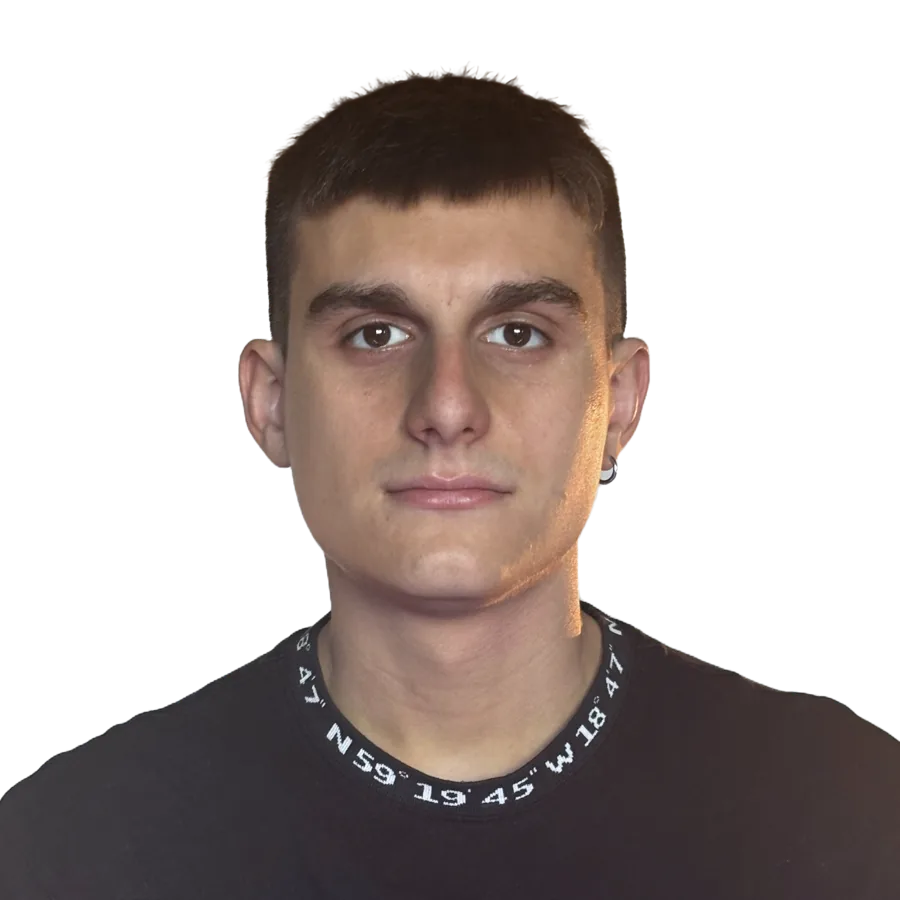
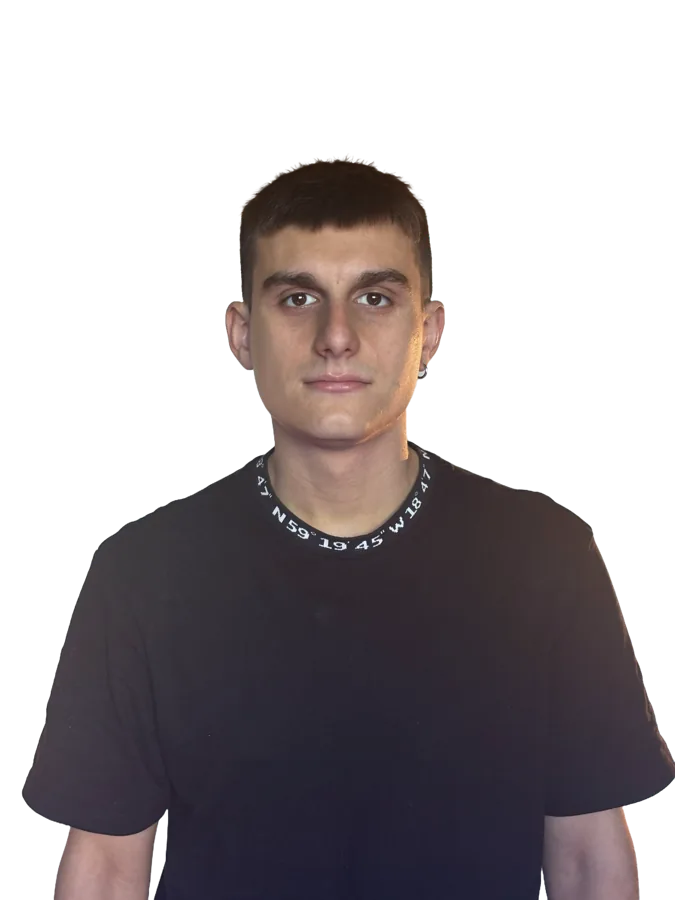
Hero senza sovrapposizioni, foto intera nella bolla
- preview e parole alternate di lato e distanziate: zero sovrapposizioni
- su mobile profondita' compressa: gli elementi finali non sono piu' piccoli
- foto intera che riempie la bolla, tagliata dal bordo, con la testa fuori
- card del carosello sempre a piena dimensione

diff --git a/assets/js/main.js b/assets/js/main.js
@@ -178,33 +178,42 @@
   const WORD_SIZE  = [54, 76, 46, 66, 42, 60];
 
   /* x = % della larghezza · z = profondita' · st = quando entra (progresso 0-1)
-     m = 1 → presente anche su schermi piccoli                                  */
+     m = 1 → presente anche su schermi piccoli
+
+     Le palline possono sovrapporsi liberamente: danno profondita'.
+     Preview e parole no: si alternano di lato e sono distanziate nel tempo
+     (almeno 0.09 di progresso tra due elementi dallo stesso lato), cosi'
+     non finiscono mai una sopra l'altra, nemmeno su schermo stretto.
+     Tutte hanno z negativo: passano dietro al nome, mai davanti.          */
   const HERO_LAYOUT = [
+    /* --- palline --- */
     { k: "ball", c: "teal",   s: 190, x: -34, z: -520, zt: 300, st: -0.28, m: 1 },
-    { k: "card", i: 0,                x:  30, z: -300, zt: 240, st: -0.22, m: 1 },
-    { k: "word", w: 0,                x: -19, z: -180, zt: 200, st: -0.16, m: 0 },
     { k: "ball", c: "blue",   s: 150, x:  38, z: -400, zt: 260, st: -0.12, m: 1 },
     { k: "ball", c: "amber",  s:  44, x: -44, z:  130, zt: 180, st: -0.06, m: 1, g: 1 },
     { k: "ball", c: "lime",   s:  52, x:  44, z:   70, zt: 160, st: -0.04, m: 1, g: 1 },
-    { k: "card", i: 1,                x: -31, z: -360, zt: 240, st: -0.02, m: 1 },
     { k: "ball", c: "cyan",   s: 220, x: -10, z: -620, zt: 320, st:  0.04, m: 1 },
-    { k: "word", w: 1,                x:  33, z:   90, zt: 150, st:  0.08, m: 1 },
     { k: "ball", c: "lime",   s:  74, x:  20, z: -250, zt: 220, st:  0.12, m: 0 },
-    { k: "card", i: 2,                x:  33, z: -210, zt: 220, st:  0.16, m: 1 },
-    { k: "word", w: 2,                x: -30, z: -430, zt: 260, st:  0.20, m: 1 },
     { k: "ball", c: "green",  s: 130, x:  29, z: -470, zt: 280, st:  0.24, m: 0 },
     { k: "ball", c: "amber",  s: 112, x: -39, z: -360, zt: 250, st:  0.26, m: 1 },
-    { k: "card", i: 3,                x: -27, z: -430, zt: 250, st:  0.28, m: 1 },
     { k: "ball", c: "orange", s:  58, x: -24, z: -200, zt: 190, st:  0.32, m: 1, g: 1 },
-    { k: "word", w: 3,                x:  21, z: -140, zt: 170, st:  0.36, m: 0 },
     { k: "ball", c: "cyan",   s:  38, x:  43, z:  150, zt: 170, st:  0.40, m: 1, g: 1 },
-    { k: "card", i: 4,                x:  28, z: -330, zt: 240, st:  0.43, m: 0 },
     { k: "ball", c: "teal",   s: 200, x:   8, z: -580, zt: 300, st:  0.46, m: 1 },
-    { k: "word", w: 4,                x: -18, z: -540, zt: 280, st:  0.49, m: 1 },
-    { k: "card", i: 5,                x: -33, z: -240, zt: 220, st:  0.52, m: 1 },
-    { k: "ball", c: "blue",   s:  96, x:  22, z: -330, zt: 230, st:  0.55, m: 0 },
     { k: "ball", c: "orange", s: 164, x: -29, z: -500, zt: 290, st:  0.50, m: 1 },
-    { k: "word", w: 5,                x:  28, z: -120, zt: 160, st:  0.58, m: 1 }
+    { k: "ball", c: "blue",   s:  96, x:  22, z: -330, zt: 230, st:  0.55, m: 0 },
+
+    /* --- preview dei contenuti e parole chiave, alternate --- */
+    { k: "card", i: 0,        x:  32, z: -300, zt: 240, st: -0.22, m: 1 },
+    { k: "word", w: 0,        x: -24, z: -180, zt: 200, st: -0.15, m: 1 },
+    { k: "card", i: 1,        x:  30, z: -360, zt: 240, st: -0.08, m: 1 },
+    { k: "word", w: 1,        x: -22, z: -160, zt: 170, st: -0.01, m: 1 },
+    { k: "card", i: 2,        x:  33, z: -210, zt: 220, st:  0.06, m: 1 },
+    { k: "word", w: 2,        x: -25, z: -430, zt: 260, st:  0.13, m: 1 },
+    { k: "card", i: 3,        x: -31, z: -430, zt: 250, st:  0.22, m: 1 },
+    { k: "word", w: 3,        x:  24, z: -140, zt: 170, st:  0.29, m: 0 },
+    { k: "card", i: 4,        x: -29, z: -330, zt: 240, st:  0.36, m: 0 },
+    { k: "word", w: 4,        x:  22, z: -540, zt: 280, st:  0.43, m: 1 },
+    { k: "card", i: 5,        x: -32, z: -240, zt: 220, st:  0.50, m: 1 },
+    { k: "word", w: 5,        x:  25, z: -120, zt: 160, st:  0.57, m: 1 }
   ];
 
   /* Le preview arrivano dai contenuti veri: appena metti un'immagine in
@@ -234,7 +243,10 @@
 
   function buildField(field, small) {
     const cards = heroCards();
-    const scale = small ? 0.88 : 1;
+    const scale = small ? 0.95 : 1;
+    /* su uno schermo stretto la profondita' rimpicciolisce troppo gli elementi
+       lontani (quelli della parte finale): avvicino tutti i piani */
+    const zK = small ? 0.55 : 1;
     const items = [];
 
     HERO_LAYOUT.forEach((d, n) => {
@@ -288,7 +300,7 @@
       }
 
       /* profondita': i piani lontani sono piu' sfocati e piu' spenti */
-      const far = Math.min(1, Math.max(0, (-d.z - 150) / 500));
+      const far = Math.min(1, Math.max(0, (-d.z * zK - 150) / 500));
       if (far > 0.05) inner.style.filter = "blur(" + (far * 2.2).toFixed(1) + "px)";
 
       item.style.opacity = "0";
@@ -296,7 +308,7 @@
       field.appendChild(item);
 
       items.push({
-        el: item, xp: small ? d.x * 0.75 : d.x, z0: d.z, zt: d.zt,
+        el: item, xp: small ? d.x * 0.85 : d.x, z0: d.z * zK, zt: d.zt * zK,
         start: d.st, dur: 0.42,
         y0: 88, travel: 176,
         d0: 380 + items.length * 80,
@@ -596,15 +608,31 @@
   function initPortrait() {
     const frame = $("#portrait");
     if (!frame || typeof FOTO === "undefined" || !FOTO) return;
-    const img = new Image();
-    img.src = FOTO;
-    img.alt = "Ritratto di Andrea Mariotti";
-    img.className = "portrait__img";
-    img.decoding = "async";
-    img.addEventListener("load", () => {
+    const probe = new Image();
+    probe.src = FOTO;
+    probe.decoding = "async";
+    probe.addEventListener("load", () => {
       const fb = $(".portrait__fallback", frame);
       if (fb) fb.remove();
-      frame.appendChild(img);
+
+      /* copia ritagliata dal cerchio: il corpo dentro la bolla */
+      const clip = document.createElement("div");
+      clip.className = "portrait__clip";
+      const body = new Image();
+      body.src = FOTO;
+      body.alt = "Ritratto di Andrea Mariotti";
+      body.className = "portrait__body";
+      clip.appendChild(body);
+
+      /* copia mascherata: solo cio' che sta sopra il bordo della bolla */
+      const head = new Image();
+      head.src = FOTO;
+      head.alt = "";
+      head.setAttribute("aria-hidden", "true");
+      head.className = "portrait__head";
+
+      frame.appendChild(clip);
+      frame.appendChild(head);
     }, { once: true });
   }
 

diff --git a/assets/css/style.css b/assets/css/style.css
@@ -461,14 +461,25 @@ body.menu-open .menu__link{animation:menuIn .55s var(--ease-out) forwards;}
   background:var(--grad-blue);
   box-shadow:0 34px 90px -26px rgba(43,107,255,.7);
 }
-/* esce dalla bolla solo la testa: spalle e collo restano dentro,
-   e il bordo basso sfuma nel blu */
-.portrait__img{
-  position:absolute;left:50%;top:-12%;width:74%;
+/* La foto e' una sola, mostrata in due copie sovrapposte:
+   - .portrait__body sta dentro un cerchio che la ritaglia (il corpo riempie
+     la bolla fino in fondo e viene tagliato dal bordo)
+   - .portrait__head mostra solo la parte sopra il bordo della bolla,
+     cioe' la testa, che resta libera.
+   Stessa immagine, stessa posizione: la giunzione non si vede. */
+.portrait__clip{
+  position:absolute;inset:0;z-index:2;
+  border-radius:50%;overflow:hidden;
+}
+.portrait__body,.portrait__head{
+  position:absolute;left:50%;top:-28%;width:100%;
   transform:translateX(-50%);
-  -webkit-mask-image:linear-gradient(to bottom,#000 74%,rgba(0,0,0,.5) 90%,transparent 100%);
-          mask-image:linear-gradient(to bottom,#000 74%,rgba(0,0,0,.5) 90%,transparent 100%);
-  filter:drop-shadow(0 22px 38px rgba(0,0,0,.55));
+}
+.portrait__head{
+  z-index:3;
+  -webkit-mask-image:linear-gradient(to bottom,#000 0 20.8%,transparent 20.8%);
+          mask-image:linear-gradient(to bottom,#000 0 20.8%,transparent 20.8%);
+  filter:drop-shadow(0 -4px 16px rgba(0,0,0,.4));
 }
 .portrait__fallback{
   font-family:var(--font-display);font-weight:700;font-size:clamp(3rem,9vw,5.5rem);
@@ -777,13 +788,18 @@ body.menu-open .menu__link{animation:menuIn .55s var(--ease-out) forwards;}
   .reels{
     display:flex;grid-template-columns:none;
     gap:14px;overflow-x:auto;overscroll-behavior-x:contain;
-    scroll-snap-type:x mandatory;-webkit-overflow-scrolling:touch;
+    scroll-snap-type:x proximity;-webkit-overflow-scrolling:touch;
+    scroll-padding-inline:var(--gutter);
     padding-inline:var(--gutter);padding-bottom:6px;
     margin-inline:calc(var(--gutter) * -1);
     scrollbar-width:none;
   }
   .reels::-webkit-scrollbar{display:none;}
-  .reel{flex:0 0 72%;scroll-snap-align:center;max-width:none;margin-inline:0;}
+  .reel{flex:0 0 72%;scroll-snap-align:start;max-width:none;margin-inline:0;}
+  /* dentro al carosello le card restano fuori dal viewport finche' non scorri:
+     senza questo partirebbero invisibili e rimpicciolite */
+  .reels > .reel.reveal{opacity:1;transform:none;filter:none;}
+  .reels::after{content:"";flex:0 0 2px;}
   .swipe-hint{
     display:flex;align-items:center;gap:8px;
     margin:-14px 0 18px;
